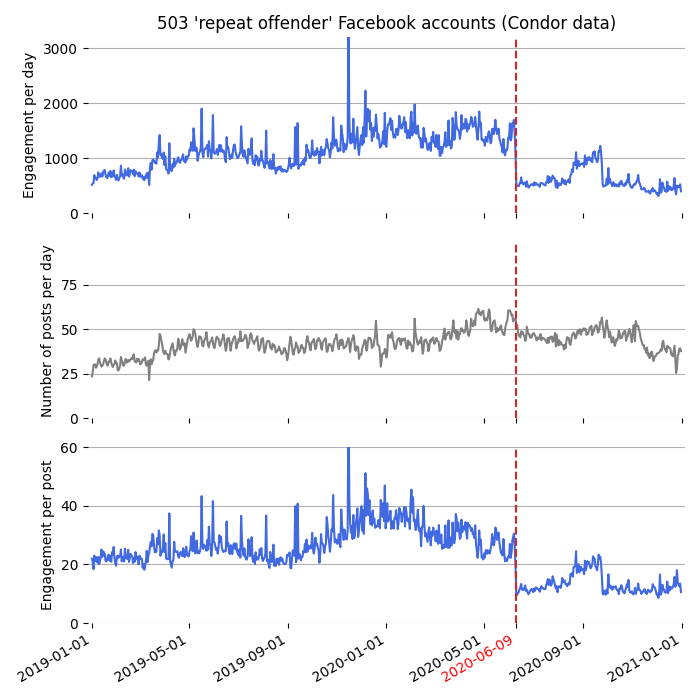
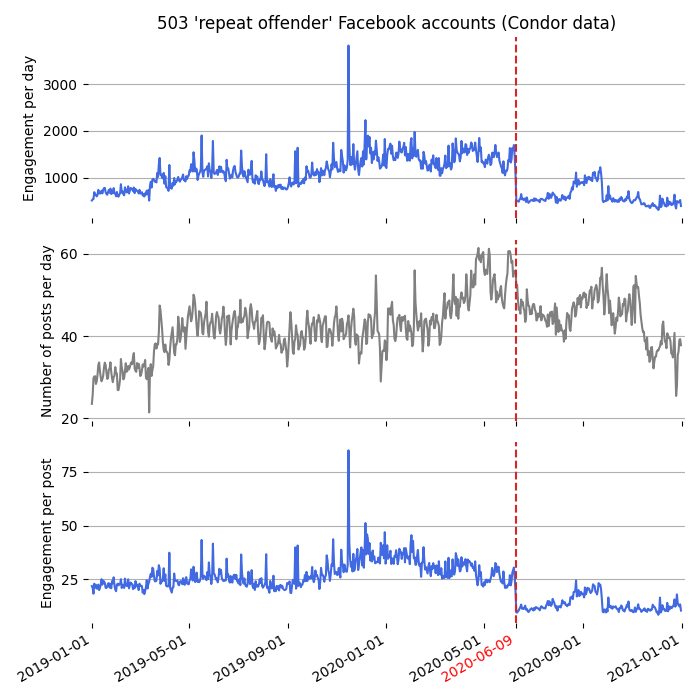
redo average timeseries for only groups and for only pages

diff --git a/code/create_section_1_figures.py b/code/create_section_1_figures.py
@@ -307,7 +307,7 @@ def plot_average_timeseries(posts_df, database_name, figure_name, option='repeat
     if option == 'repeat offender':
         plt.title("{} 'repeat offender' Facebook accounts ({} data)".format(
             str(posts_df.account_id.nunique()), database_name))
-        plt.ylim(0, 3200)
+        # plt.ylim(0, 3200)
     else:
         plt.title("{} '{}' Facebook groups".format(str(posts_df.account_id.nunique()), option))
         # plt.ylim(0, 950000)
@@ -336,8 +336,8 @@ def plot_average_timeseries(posts_df, database_name, figure_name, option='repeat
     plt.ylabel("Engagement per post")
     timeserie_template(ax)
     plt.axvline(x=np.datetime64(drop_date), color='C3', linestyle='--')
-    if option == 'repeat offender':
-        plt.ylim(0, 60)
+    # if option == 'repeat offender':
+    #     plt.ylim(0, 60)
     #else:
         #plt.ylim(0, 15000)
 
@@ -402,5 +402,11 @@ if __name__=="__main__":
                                           'Science Feedback', 'sf_repeat_vs_free_percentage_change')
 
     plot_average_timeseries(posts_df, 'Science Feedback', 'sf_average_timeseries')
+
+    # posts_df_temp = posts_df[posts_df['account_name'].isin(list(posts_page_df["account_name"].unique()))]
+    # plot_average_timeseries(posts_df_temp, 'Science Feedback', 'sf_average_timeseries_pages')
+
+    # posts_df_temp = posts_df[~posts_df['account_name'].isin(list(posts_page_df["account_name"].unique()))]
+    # plot_average_timeseries(posts_df_temp, 'Science Feedback', 'sf_average_timeseries_groups')
 
     plot_june_drop_percentage_change(posts_df, posts_page_df, 'Science Feedback', 'sf_june_drop_percentage_change')

diff --git a/code/create_section_2_figures.py b/code/create_section_2_figures.py
@@ -60,4 +60,10 @@ if __name__=="__main__":
 
     plot_average_timeseries(posts_df, 'Condor', 'condor_average_timeseries')
 
+    # posts_df_temp = posts_df[posts_df['account_name'].isin(list(posts_page_df["account_name"].unique()))]
+    # plot_average_timeseries(posts_df_temp, 'Condor', 'condor_average_timeseries_pages')
+
+    # posts_df_temp = posts_df[~posts_df['account_name'].isin(list(posts_page_df["account_name"].unique()))]
+    # plot_average_timeseries(posts_df_temp, 'Condor', 'condor_average_timeseries_groups')
+
     plot_june_drop_percentage_change(posts_df, posts_page_df, 'Condor', 'condor_june_drop_percentage_change')
